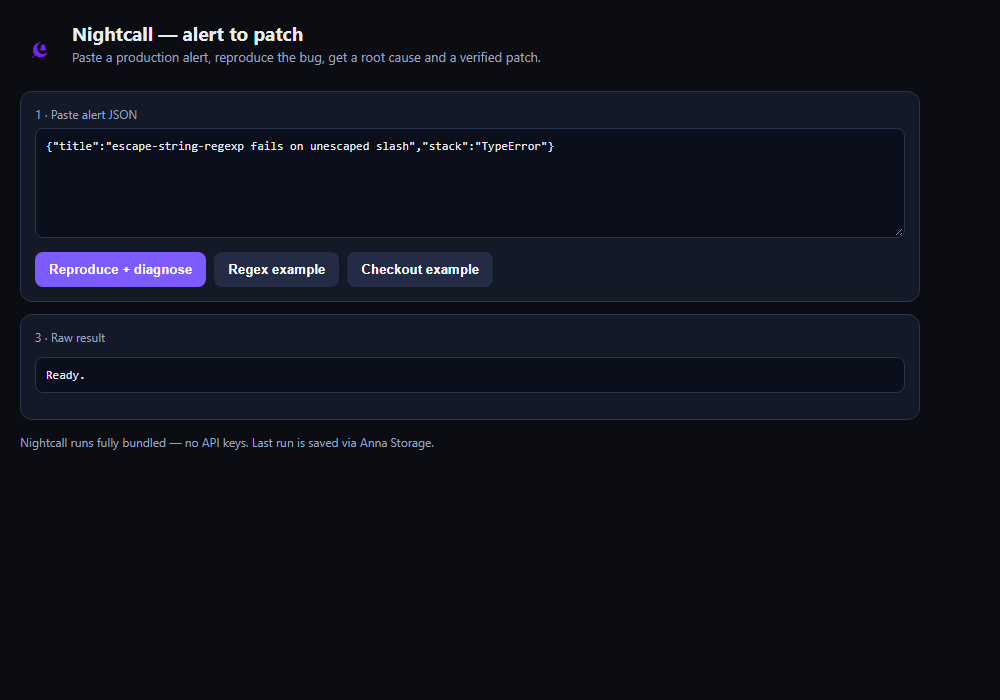
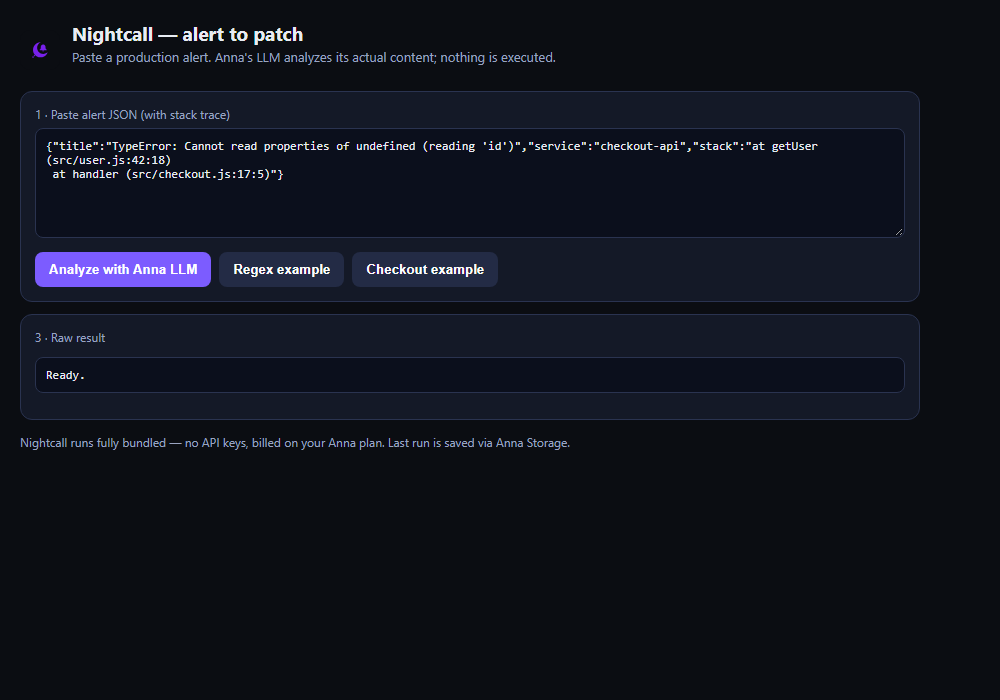
docs: screenshots v0.3.0 UI

diff --git a/scripts/shots.js b/scripts/shots.js
@@ -7,41 +7,37 @@ const path = require("path");
   require("fs").mkdirSync(outDir, { recursive: true });
   const browser = await chromium.launch();
   const page = await browser.newPage({ viewport: { width: 1000, height: 700 } });
-  page.on("console", (m) => console.log("[console]", m.type(), m.text().slice(0, 120)));
   await page.goto("file:///" + bundle.replace(/\\/g, "/"));
 
-  // 1 - empty / ready state
+  // 1 - empty / ready state (mail's alert prefilled by default)
   await page.waitForTimeout(800);
   await page.screenshot({ path: path.join(outDir, "01-alert-input.png") });
 
-  // 2 - filled diagnosis (real plugin output shape, rendered by our bundle code)
+  // 2 - AI analysis rendered by our bundle code (honest fields)
   await page.evaluate(() => {
-    document.getElementById("alert").value = JSON.stringify(
-      { title: "escape-string-regexp fails on unescaped slash", stack: "TypeError" },
-      null,
-      2
-    );
     document.getElementById("res-title").textContent =
-      "escape-string-regexp fails on unescaped slash";
-    document.getElementById("res-repro").textContent = "reproduced";
+      "TypeError: Cannot read properties of undefined (reading 'id')";
+    document.getElementById("res-source").textContent = "Anna LLM";
+    document.getElementById("res-conf").textContent = "medium";
     document.getElementById("res-cause").textContent =
-      "Unescaped special chars reach RegExp constructor; '/' and similar tokens are not escaped.";
+      "getUser in src/user.js:42 reads id from an undefined user object; the caller handler in src/checkout.js:17 passes no user.";
     document.getElementById("res-patch").textContent =
-      "Escape input with escape-string-regexp before new RegExp(input).";
-    document.getElementById("res-verify").textContent =
-      "red-green: failing fixture passes after patch";
-    document.getElementById("res-next").textContent =
-      "Paste the diff into your repo, run npm test, open a PR.";
+      "Guard in getUser: if (!user) throw new Error('missing user'); use user?.id at the read site.";
+    document.getElementById("res-evidence").textContent =
+      "getUser (src/user.js:42); handler (src/checkout.js:17); accessed field: 'id'; service: checkout-api";
+    document.getElementById("res-honesty").textContent =
+      "Not reproduced, not verified — inference from the alert text only. Validate in your own repo before applying.";
     document.getElementById("result").hidden = false;
     document.getElementById("out").textContent = JSON.stringify(
       {
         success: true,
         data: {
-          title: "escape-string-regexp fails on unescaped slash",
-          reproduced: true,
-          root_cause: "Unescaped special chars reach RegExp constructor.",
-          patch: "Escape input with escape-string-regexp before new RegExp(input).",
-          verify: "red-green: failing fixture passes after patch"
+          title: "TypeError: Cannot read properties of undefined (reading 'id')",
+          confidence: "medium",
+          evidence_used: ["getUser (src/user.js:42)", "accessed field: 'id'"],
+          analysis_source: "anna-llm",
+          reproduced: false,
+          verified: false
         }
       },
       null,
